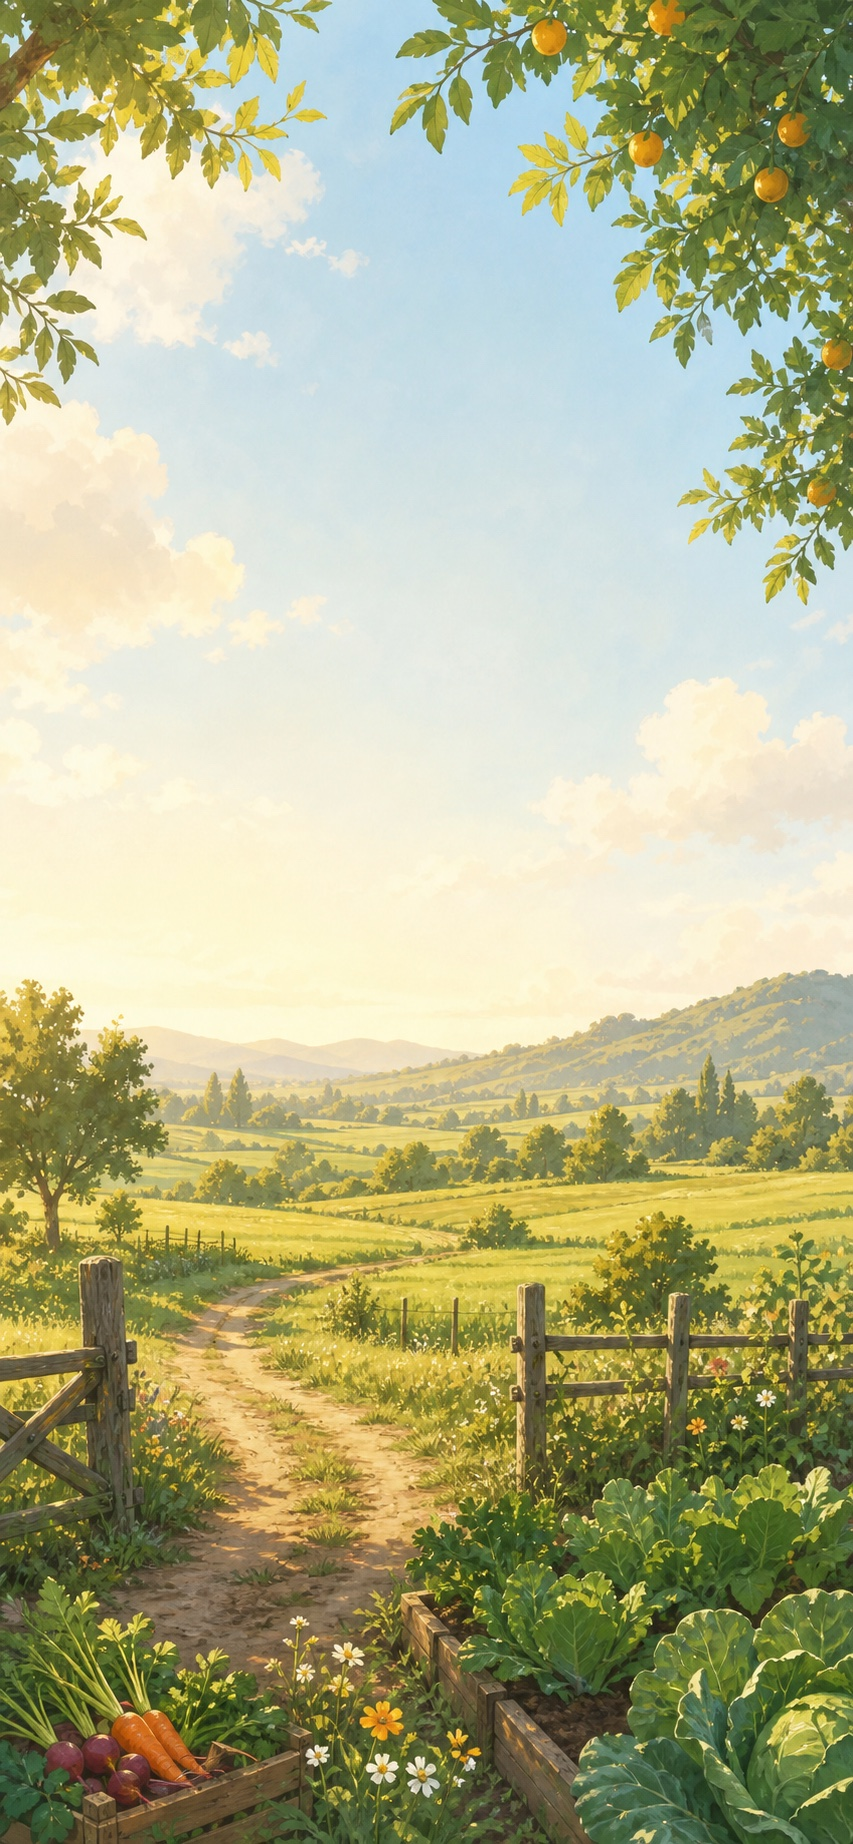
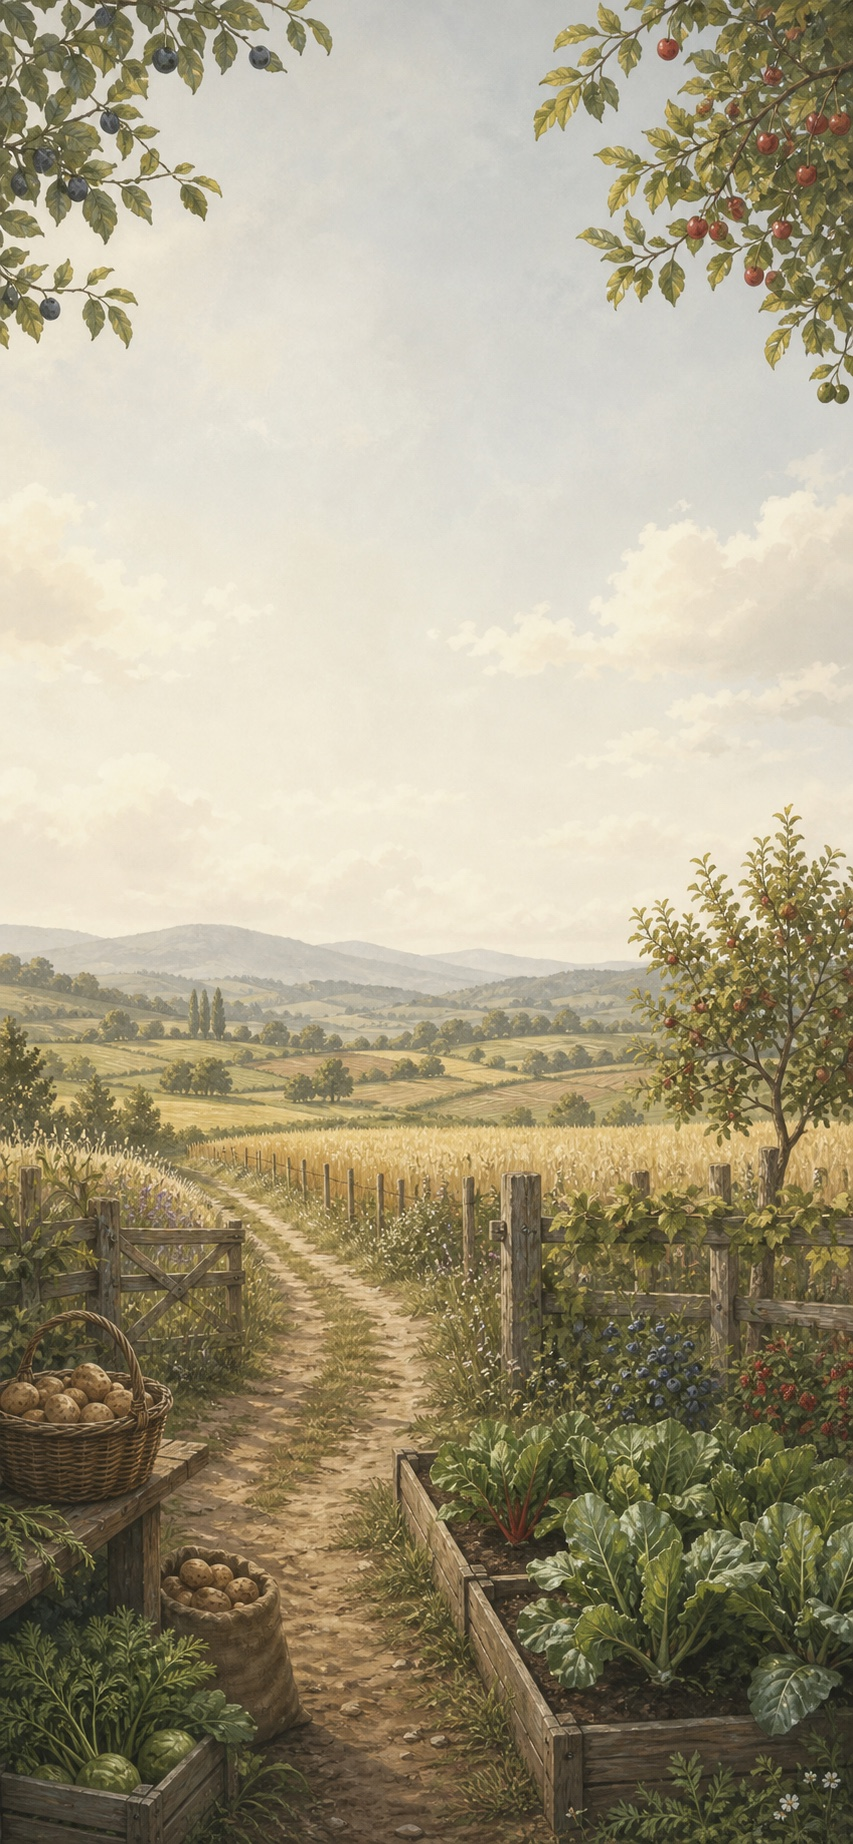
Actualizar fondo del login

diff --git a/src/App.tsx b/src/App.tsx
@@ -1188,7 +1188,7 @@ function LoginGate({
         </div>
       </section>
       <footer className="login-footer">
-        Version {APP_VERSION} - Desarrollador organizacional Zata Studio Lab
+        Version {APP_VERSION} - Zata Studio Lab
       </footer>
     </main>
   );